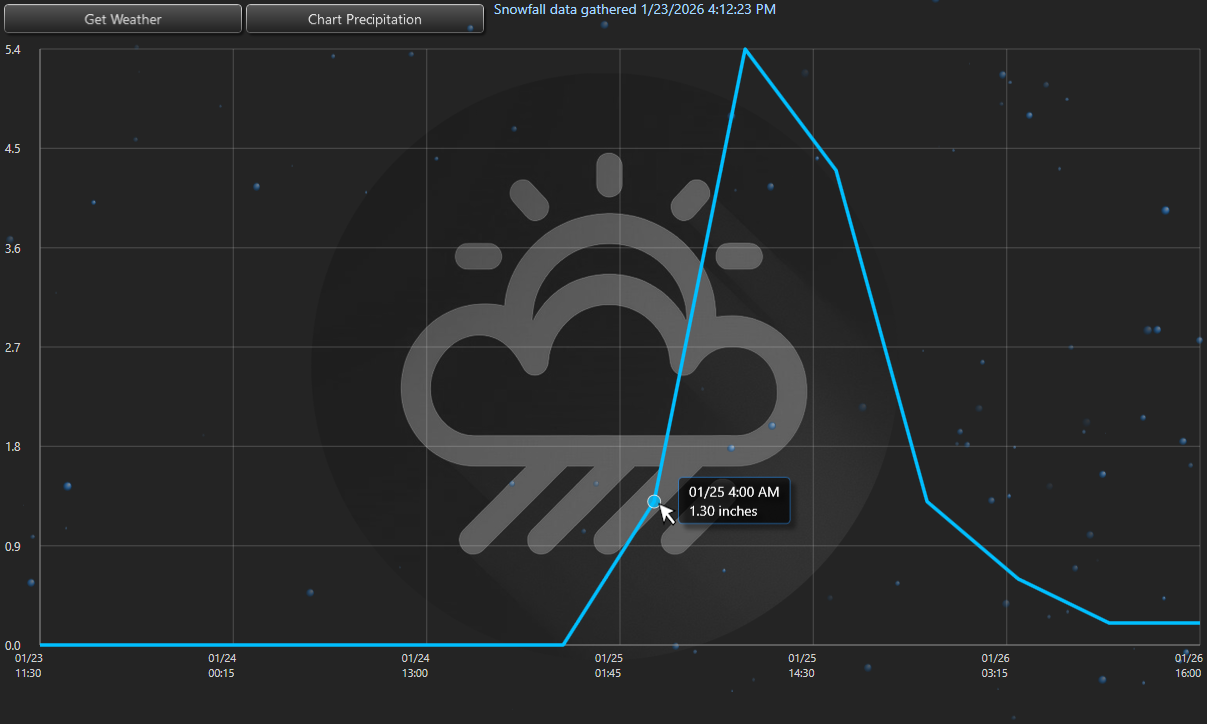
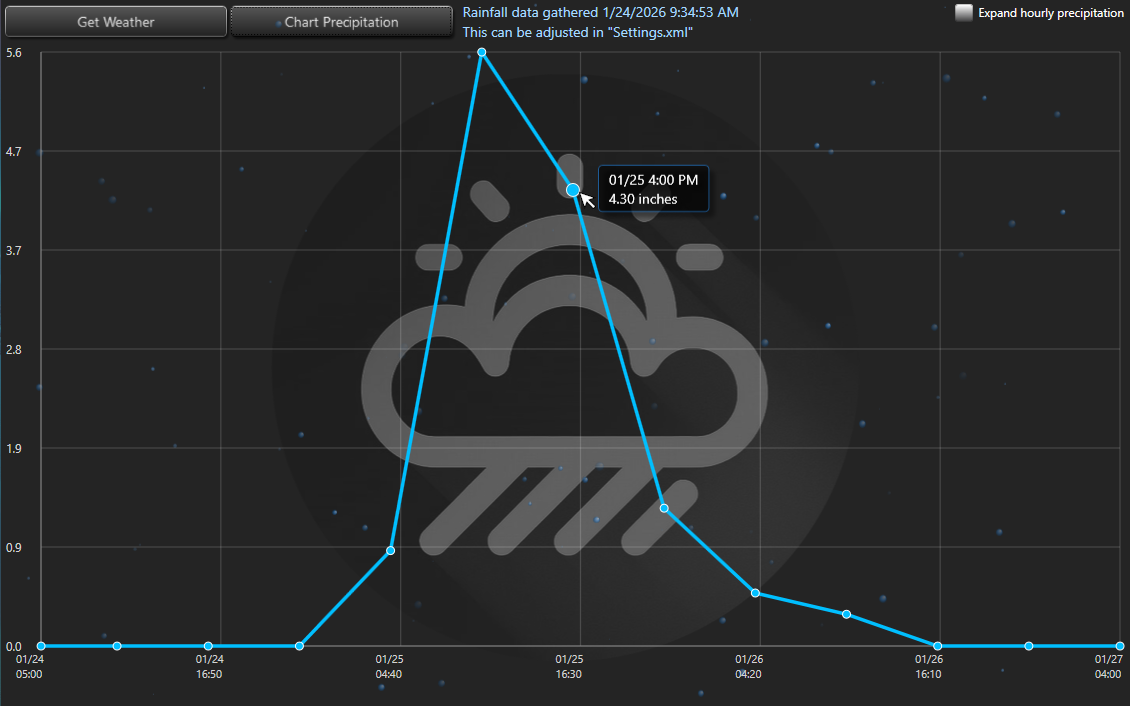
added chart series point option

diff --git a/Controls/CartesianChart.xaml b/Controls/CartesianChart.xaml
@@ -8,6 +8,9 @@
              d:DesignHeight="250" d:DesignWidth="450">
     <Grid>
         <Canvas x:Name="PART_Canvas" Background="Transparent" ClipToBounds="False">
+
+            <Canvas x:Name="PART_PointLayer"/>
+
             <!-- Highlight -->
             <Ellipse x:Name="PART_HighlightDot"
              Width="14"

diff --git a/Controls/CartesianChart.xaml.cs b/Controls/CartesianChart.xaml.cs
@@ -7,6 +7,7 @@ using System.Windows.Controls;
 using System.Windows.Input;
 using System.Windows.Media;
 using System.Windows.Media.Animation;
+using System.Windows.Shapes;
 
 namespace NOAA.Controls;
 
@@ -71,6 +72,18 @@ public partial class CartesianChart : UserControl
         DrawGridlines(points);
         DrawAxes();
         DrawSeries();
+        if (Series[0].ShowPoints)
+        {
+            DrawAllDataPointDots();
+        }
+
+        #region [WPF lacks a built‑in BringToFront() method, so do it the canonical way]
+        if (Series[0].ShowPoints)
+        {
+            // Add the static points layer
+            PART_Canvas.Children.Remove(PART_PointLayer);
+            PART_Canvas.Children.Add(PART_PointLayer);
+        }
 
         // Ensure dot is on top (z-order fix)
         PART_Canvas.Children.Remove(PART_HighlightDot);
@@ -79,6 +92,7 @@ public partial class CartesianChart : UserControl
         // Ensure tooltip is on top (z-order fix)
         PART_Canvas.Children.Remove(PART_Tooltip);
         PART_Canvas.Children.Add(PART_Tooltip);
+        #endregion
     }
 
     void DrawAxes()
@@ -203,6 +217,37 @@ public partial class CartesianChart : UserControl
 
         dc.Close();
         PART_Canvas.Children.Add(new VisualHost(g));
+    }
+
+    void DrawAllDataPointDots()
+    {
+        PART_PointLayer.Children.Clear();
+
+        if (Series == null || Series.Count == 0)
+            return;
+
+        var series = Series[0];
+
+        foreach (var p in series.Points)
+        {
+            double x = PlotX_Scoped(p.Time);
+            double y = PlotY_Scoped(p.Value);
+
+            var dot = new Ellipse
+            {
+                Width = 9,
+                Height = 9,
+                Fill = Brushes.DeepSkyBlue,
+                Stroke = Brushes.White,
+                StrokeThickness = 1,
+                IsHitTestVisible = false // important so mouse hover still works
+            };
+
+            Canvas.SetLeft(dot, x - dot.Width / 2);
+            Canvas.SetTop(dot, y - dot.Height / 2);
+
+            PART_PointLayer.Children.Add(dot);
+        }
     }
     #endregion
 

diff --git a/Models/Charts.cs b/Models/Charts.cs
@@ -31,5 +31,9 @@ namespace NOAA
         public Brush GridPen { get; set; } = new SolidColorBrush(Color.FromArgb(40, 255, 255, 255));
         public double GridThickness { get; set; } = 1.25;
         #endregion
+
+        #region [Static points]
+        public bool ShowPoints { get; set; } = true;
+        #endregion
     }
 }
